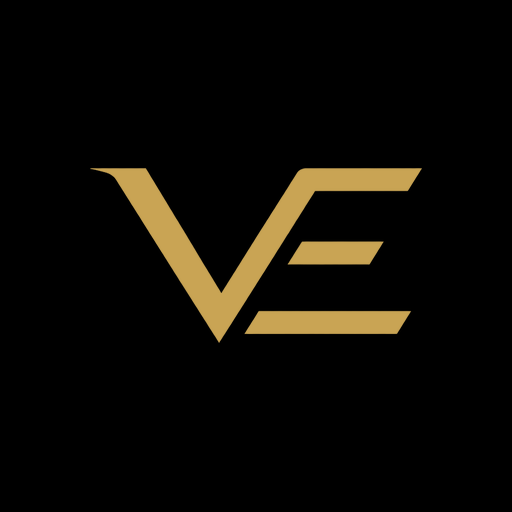
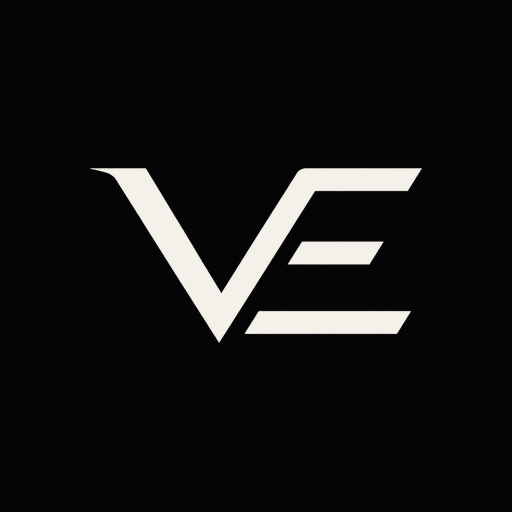
new

Changed region(s): [[0.1875, 0.3125, 0.8438, 0.6875]]

diff --git a/src/app/application/page.tsx b/src/app/application/page.tsx
@@ -86,7 +86,7 @@ const STEPS = [
 ];
 
 function Eyebrow({ children }: { children: React.ReactNode }) {
-  return <p className="text-[11px] font-semibold uppercase tracking-[0.2em] text-gold">{children}</p>;
+  return <p className="text-[11px] font-semibold uppercase tracking-[0.2em] text-silver">{children}</p>;
 }
 
 export default function ApplicationLanding() {
@@ -106,9 +106,9 @@ export default function ApplicationLanding() {
           </div>
 
           <h1 className="mt-4 font-display text-[2.2rem] leading-[1.08] sm:text-6xl">
-            Tú pones los agentes.
+            <span className="text-muted">Tú pones los agentes.</span>
             <br />
-            <span className="text-gold">Nosotros, la data y la infraestructura.</span>
+            Nosotros, la data y la infraestructura.
           </h1>
 
           <p className="mt-5 max-w-xl text-[15px] leading-relaxed text-muted sm:text-lg">
@@ -118,7 +118,7 @@ export default function ApplicationLanding() {
         </div>
 
         <div className="fade-in relative mx-auto mt-8 max-w-3xl [animation-delay:150ms] sm:mt-10">
-          <div className="overflow-hidden rounded-lg border border-gold/25 bg-black shadow-[0_24px_80px_-40px_rgba(0,0,0,0.9)]">
+          <div className="overflow-hidden rounded-lg border border-white/15 bg-black shadow-[0_24px_80px_-40px_rgba(0,0,0,0.9)]">
             <VslPlayer />
           </div>
           <p className="mt-4 text-center text-[12px] text-muted">Mira el video completo · 2 min</p>
@@ -134,7 +134,7 @@ export default function ApplicationLanding() {
               className={`px-3 text-center ${i % 2 === 1 ? "border-l border-line" : ""} ${i === 2 ? "lg:border-l" : ""}`}
             >
               <p className="font-display text-5xl leading-none">
-                <span className="text-gold">{s.value}</span>
+                <span className="text-foreground">{s.value}</span>
                 <span className="ml-1 text-base text-muted">{s.unit}</span>
               </p>
               <p className="mx-auto mt-3 max-w-[15rem] text-[13px] leading-snug text-muted">{s.label}</p>
@@ -148,8 +148,8 @@ export default function ApplicationLanding() {
         <div className="mx-auto max-w-2xl text-center">
           <Eyebrow>El verdadero problema</Eyebrow>
           <h2 className="mt-5 font-display text-4xl leading-tight sm:text-5xl">
-            El cuello de botella de tu agencia no es el talento.
-            <span className="mt-2 block font-normal text-gold">Es la falta de predictibilidad.</span>
+            <span className="text-muted">El cuello de botella de tu agencia no es el talento.</span>
+            <span className="mt-2 block">Es la falta de predictibilidad.</span>
           </h2>
           <p className="mt-6 text-[15px] leading-relaxed text-muted sm:text-base">
             Tus agentes saben cerrar. Lo que frena el crecimiento es no saber cuántas oportunidades reales van a
@@ -165,7 +165,7 @@ export default function ApplicationLanding() {
           <div className="text-center">
             <Eyebrow>La diferencia</Eyebrow>
             <h2 className="mt-5 font-display text-4xl leading-tight sm:text-5xl">
-              Comprar leads <span className="text-gold">no es</span> tener un sistema
+              Comprar leads <span className="text-muted">no es</span> tener un sistema
             </h2>
           </div>
 
@@ -173,7 +173,7 @@ export default function ApplicationLanding() {
             <div className="hidden grid-cols-[1fr_1.3fr_1.3fr] border-b border-line-strong bg-surface-2 text-[11px] font-semibold uppercase tracking-[0.2em] md:grid">
               <span className="px-6 py-4 text-muted">&nbsp;</span>
               <span className="px-6 py-4 text-muted">Modelo tradicional</span>
-              <span className="px-6 py-4 text-gold">Con Visionary Elite</span>
+              <span className="px-6 py-4 text-foreground">Con Visionary Elite</span>
             </div>
             {COMPARISON.map((c) => (
               <div
@@ -188,7 +188,7 @@ export default function ApplicationLanding() {
                   {c.before}
                 </p>
                 <p className="flex gap-3 px-5 pb-5 pt-2 text-[14px] leading-snug md:px-6 md:py-5">
-                  <svg viewBox="0 0 20 20" className="mt-0.5 h-4 w-4 shrink-0 text-gold" aria-hidden>
+                  <svg viewBox="0 0 20 20" className="mt-0.5 h-4 w-4 shrink-0 text-silver" aria-hidden>
                     <path d="M4.5 10.5l3.5 3.5 7.5-8" fill="none" stroke="currentColor" strokeWidth="2" />
                   </svg>
                   {c.after}
@@ -211,7 +211,7 @@ export default function ApplicationLanding() {
             {PILLARS.map((p, i) => (
               <article key={p.title} className="rounded-lg border border-line-strong bg-surface-2 p-6 sm:p-7">
                 <div className="flex items-center justify-between">
-                  <span className="h-0.5 w-8 bg-gold" />
+                  <span className="h-0.5 w-8 bg-silver/70" />
                   <span className="text-[12px] font-medium tabular-nums text-faint">0{i + 1}</span>
                 </div>
                 <h3 className="mt-5 font-display text-[1.7rem] leading-tight">{p.title}</h3>
@@ -228,7 +228,7 @@ export default function ApplicationLanding() {
           <div className="mx-auto max-w-2xl text-center">
             <Eyebrow>Haz el cálculo</Eyebrow>
             <h2 className="mt-5 font-display text-4xl leading-tight sm:text-5xl">
-              ¿Qué produce tu agencia si cada agente cierra <span className="text-gold">3 al día</span>?
+              ¿Qué produce tu agencia si cada agente cierra <span className="text-muted">3 al día</span>?
             </h2>
             <p className="mt-5 text-[15px] leading-relaxed text-muted">
               Mueve los valores con los números reales de tu equipo.
@@ -246,18 +246,21 @@ export default function ApplicationLanding() {
           <div className="text-center md:text-left">
             <Eyebrow>A quién buscamos</Eyebrow>
             <h2 className="mt-5 font-display text-4xl leading-tight sm:text-5xl">
-              Líderes de agencia que ya tienen <span className="text-gold">estructura</span>
+              <span className="text-muted">Líderes de agencia que ya tienen</span> estructura
             </h2>
             <p className="mt-5 text-[15px] leading-relaxed text-muted">
               Esto no se soluciona con un mensaje ni con una llamada de cinco minutos. Trabajamos con pocas
               agencias, a fondo, para capturar juntos la cuota de mercado que nos corresponde.
+            </p>
+            <p className="mt-7 font-display text-2xl leading-snug sm:text-3xl">
+              <span className="text-muted">No buscamos cantidad,</span> sino calidad.
             </p>
           </div>
 
           <ul className="divide-y divide-line-strong border-y border-line-strong">
             {FIT.map((f) => (
               <li key={f} className="flex items-start gap-4 py-4">
-                <svg viewBox="0 0 20 20" className="mt-0.5 h-5 w-5 shrink-0 text-gold" aria-hidden>
+                <svg viewBox="0 0 20 20" className="mt-0.5 h-5 w-5 shrink-0 text-silver" aria-hidden>
                   <path d="M4.5 10.5l3.5 3.5 7.5-8" fill="none" stroke="currentColor" strokeWidth="1.8" />
                 </svg>
                 <span className="text-[15px] leading-snug">{f}</span>
@@ -292,7 +295,7 @@ export default function ApplicationLanding() {
           <ol className="relative mt-12 space-y-10 before:absolute before:bottom-6 before:left-[19px] before:top-6 before:w-px before:bg-line-strong">
             {STEPS.map((s, i) => (
               <li key={s.title} className="relative flex gap-6">
-                <span className="relative z-10 flex h-10 w-10 shrink-0 items-center justify-center rounded-full border border-gold/60 bg-background text-sm font-semibold text-gold">
+                <span className="relative z-10 flex h-10 w-10 shrink-0 items-center justify-center rounded-full border border-white/30 bg-background text-sm font-semibold text-foreground">
                   {i + 1}
                 </span>
                 <div className="pt-1.5">
@@ -317,7 +320,7 @@ export default function ApplicationLanding() {
               <details key={f.q} className="group py-5">
                 <summary className="flex cursor-pointer list-none items-center justify-between gap-6 text-[16px] font-medium [&::-webkit-details-marker]:hidden">
                   {f.q}
-                  <span className="text-xl leading-none text-gold transition-transform group-open:rotate-45" aria-hidden>
+                  <span className="text-xl leading-none text-silver transition-transform group-open:rotate-45" aria-hidden>
                     +
                   </span>
                 </summary>
@@ -331,12 +334,12 @@ export default function ApplicationLanding() {
       {/* ---------- Cierre ---------- */}
       <section className="relative px-4 pb-20 pt-4 sm:pb-28">
         <div className="mx-auto max-w-2xl text-center">
-          <span className="mx-auto block h-px w-16 bg-gold/60" />
+          <span className="mx-auto block h-px w-16 bg-white/30" />
           <p className="mt-10 font-display text-3xl italic leading-snug sm:text-4xl">
             &ldquo;Mi objetivo es integrar mi tecnología, mi sistema de distribución y mi organización directamente
             en tu oficina.&rdquo;
           </p>
-          <Logo variant="monogram" className="mx-auto mt-10 w-12" />
+          <Logo variant="monogram" className="mx-auto mt-10 w-12 text-muted" />
         </div>
       </section>
 

diff --git a/src/app/application/apply/ApplicationForm.tsx b/src/app/application/apply/ApplicationForm.tsx
@@ -137,7 +137,7 @@ export default function ApplicationForm() {
       {/* Encabezado + progreso por segmentos */}
       <header className="mx-auto w-full max-w-xl px-5 pt-5">
         <div className="flex items-center justify-between">
-          <Logo className="w-[76px] text-gold" />
+          <Logo className="w-[76px]" />
           <span className="text-[13px] font-medium tabular-nums text-muted">
             <span className="text-foreground">{String(i + 1).padStart(2, "0")}</span> / {STEPS.length}
           </span>
@@ -146,7 +146,7 @@ export default function ApplicationForm() {
           {STEPS.map((s, n) => (
             <span
               key={s}
-              className={`h-[3px] flex-1 transition-colors duration-300 ${n <= i ? "bg-gold" : "bg-line-strong"}`}
+              className={`h-[3px] flex-1 transition-colors duration-300 ${n <= i ? "bg-foreground" : "bg-line-strong"}`}
             />
           ))}
         </div>
@@ -187,14 +187,14 @@ export default function ApplicationForm() {
                     >
                       <span
                         className={`flex h-7 w-7 shrink-0 items-center justify-center border text-[11px] font-semibold transition-colors ${
-                          selected ? "border-gold bg-gold text-black" : "border-line-strong text-muted"
+                          selected ? "border-foreground bg-foreground text-black" : "border-line-strong text-muted"
                         }`}
                       >
                         {String.fromCharCode(65 + n)}
                       </span>
                       <span className="flex-1">{o.label}</span>
                       {selected && (
-                        <svg viewBox="0 0 20 20" className="h-4 w-4 text-gold" aria-hidden>
+                        <svg viewBox="0 0 20 20" className="h-4 w-4 text-foreground" aria-hidden>
                           <path d="M4.5 10.5l3.5 3.5 7.5-8" fill="none" stroke="currentColor" strokeWidth="1.8" />
                         </svg>
                       )}
@@ -269,7 +269,7 @@ export default function ApplicationForm() {
                 error={showError(errors.npn)}
                 autoFocus
               />
-              <p className="mt-4 border-l-2 border-gold pl-3 text-[13px] leading-snug text-foreground/90">
+              <p className="mt-4 border-l-2 border-silver pl-3 text-[13px] leading-snug text-foreground/90">
                 Si tu NPN no coincide con tu nombre, no serás contactado.
               </p>
               <p className="mt-10 text-[12px] leading-relaxed text-faint">
@@ -310,7 +310,7 @@ export default function ApplicationForm() {
               <button
                 type="submit"
                 disabled={sending}
-                className="flex h-[52px] flex-1 items-center justify-between bg-gold px-5 text-[14px] font-semibold text-black transition hover:bg-[#d6b264] active:translate-y-px disabled:opacity-60"
+                className="flex h-[52px] flex-1 items-center justify-between bg-foreground px-5 text-[14px] font-semibold text-black transition hover:bg-white active:translate-y-px disabled:opacity-60"
               >
                 <span>{step === "npn" ? (sending ? "Enviando…" : "Enviar aplicación") : "Continuar"}</span>
                 <svg viewBox="0 0 20 20" className="h-4 w-4" aria-hidden>
@@ -338,7 +338,7 @@ function Step({
 }) {
   return (
     <div>
-      <p className="text-[12px] font-medium uppercase tracking-[0.14em] text-gold">{eyebrow}</p>
+      <p className="text-[12px] font-medium uppercase tracking-[0.14em] text-silver">{eyebrow}</p>
       <h1 className="mt-3 font-display text-[1.95rem] leading-[1.12] sm:text-[2.5rem]">{title}</h1>
       {hint && <p className="mt-3 text-sm text-muted">{hint}</p>}
       <div className="mt-9">{children}</div>
@@ -367,7 +367,7 @@ function Field({
         value={value}
         onChange={(e) => onChange(e.target.value)}
         aria-invalid={Boolean(error)}
-        className={`w-full border-b bg-transparent pb-3 pt-2 text-[20px] text-foreground outline-none transition-colors placeholder:text-faint focus:border-gold ${
+        className={`w-full border-b bg-transparent pb-3 pt-2 text-[20px] text-foreground outline-none transition-colors placeholder:text-faint focus:border-foreground ${
           error ? "border-red-500" : "border-line-strong"
         }`}
       />

diff --git a/src/app/globals.css b/src/app/globals.css
@@ -5,9 +5,10 @@
   --surface: #0b0b0c;
   --surface-2: #111113;
   --foreground: #f4f1ea;
-  --muted: #9a968d;
-  --faint: #5f5c56;
-  --line: rgba(212, 175, 55, 0.16);
+  --muted: #8e929a;
+  --faint: #5c6068;
+  --silver: #c3c7ce;
+  --line: rgba(255, 255, 255, 0.08);
   --line-strong: #2a2a2a;
   --gold-light: #f5e3a3;
   --gold: #d4af37;
@@ -21,6 +22,7 @@
   --color-foreground: var(--foreground);
   --color-muted: var(--muted);
   --color-faint: var(--faint);
+  --color-silver: var(--silver);
   --color-line: var(--line);
   --color-line-strong: var(--line-strong);
   --color-gold: var(--gold);
@@ -41,7 +43,7 @@ body {
 }
 
 ::selection {
-  background: rgba(212, 175, 55, 0.35);
+  background: rgba(255, 255, 255, 0.25);
   color: #fff;
 }
 
@@ -59,15 +61,15 @@ body {
   background-size: 200% auto;
 }
 
-/* Solo para el "Coming Soon" del home. */
-.gold-text {
+/* Solo para el "Coming Soon" del home (plata). */
+.silver-text {
   background: linear-gradient(
     110deg,
-    var(--gold-deep) 0%,
-    var(--gold) 25%,
-    var(--gold-light) 50%,
-    var(--gold) 75%,
-    var(--gold-deep) 100%
+    #6b6f76 0%,
+    #c3c7ce 25%,
+    #ffffff 50%,
+    #c3c7ce 75%,
+    #6b6f76 100%
   );
   background-size: 200% auto;
   -webkit-background-clip: text;
@@ -76,21 +78,22 @@ body {
   animation: shimmer 8s linear infinite;
 }
 
-.gold-line {
-  background: linear-gradient(90deg, transparent, var(--gold), transparent);
+.silver-line {
+  background: linear-gradient(90deg, transparent, var(--silver), transparent);
 }
 
 .glow {
   background: radial-gradient(
     ellipse at center,
-    rgba(212, 175, 55, 0.1) 0%,
-    rgba(212, 175, 55, 0.03) 35%,
+    rgba(255, 255, 255, 0.06) 0%,
+    rgba(255, 255, 255, 0.02) 35%,
     transparent 70%
   );
 }
 
-/* Logo: el PNG blanco se usa como máscara y se rellena con el degradado dorado. */
+/* Logo: el PNG blanco se usa como máscara y se rellena con el color del texto. */
 .logo-mask {
+  background-color: currentColor;
   -webkit-mask: var(--logo) center / contain no-repeat;
   mask: var(--logo) center / contain no-repeat;
 }
@@ -134,7 +137,7 @@ body {
 }
 
 @media (prefers-reduced-motion: reduce) {
-  .gold-text,
+  .silver-text,
   .fade-in,
   .step-in {
     animation: none;

diff --git a/src/components/ComingSoon.tsx b/src/components/ComingSoon.tsx
@@ -4,11 +4,11 @@ export default function ComingSoon() {
       <div className="glow pointer-events-none absolute left-1/2 top-1/2 h-[70vmin] w-[140vmin] -translate-x-1/2 -translate-y-1/2" />
 
       <div className="fade-in relative flex flex-col items-center gap-8">
-        <span className="gold-line h-px w-24 sm:w-40" />
-        <h1 className="gold-text font-display text-center text-5xl font-light uppercase tracking-[0.3em] sm:text-7xl md:text-8xl">
+        <span className="silver-line h-px w-24 sm:w-40" />
+        <h1 className="silver-text font-display text-center text-5xl font-light uppercase tracking-[0.3em] sm:text-7xl md:text-8xl">
           Coming Soon
         </h1>
-        <span className="gold-line h-px w-24 sm:w-40" />
+        <span className="silver-line h-px w-24 sm:w-40" />
       </div>
     </main>
   );

diff --git a/src/components/Logo.tsx b/src/components/Logo.tsx
@@ -5,19 +5,19 @@ type Props = {
   className?: string;
 };
 
-// Proporciones reales de los PNG de public/brand.
+// Proporciones reales de los PNG de public/brand. El color sale de `text-*`.
 const ASSETS = {
   full: { src: "/brand/logo.png", ratio: "981 / 538" },
   monogram: { src: "/brand/monogram.png", ratio: "553 / 292" },
 };
 
-export default function Logo({ variant = "full", className = "" }: Props) {
+export default function Logo({ variant = "full", className = "text-foreground" }: Props) {
   const a = ASSETS[variant];
   return (
     <div
       role="img"
       aria-label="Visionary Elite"
-      className={`logo-mask gold-gradient ${className}`}
+      className={`logo-mask ${className}`}
       style={{ "--logo": `url(${a.src})`, aspectRatio: a.ratio } as CSSProperties}
     />
   );

diff --git a/src/components/ThankYou.tsx b/src/components/ThankYou.tsx
@@ -13,12 +13,12 @@ export default function ThankYou({
   return (
     <div className="flex min-h-dvh flex-1 flex-col">
       <header className="mx-auto w-full max-w-xl px-5 py-5">
-        <Logo className="w-[84px] text-gold" />
+        <Logo className="w-[84px]" />
       </header>
 
       <main className="step-in mx-auto flex w-full max-w-xl flex-1 flex-col justify-center px-5 pb-24">
         <div className="flex items-center gap-3">
-          <span className="h-1.5 w-1.5 bg-gold" />
+          <span className="h-1.5 w-1.5 bg-silver" />
           <p className="text-[12px] font-medium uppercase tracking-[0.14em] text-muted">{eyebrow}</p>
         </div>
         <h1 className="mt-5 font-display text-[2.4rem] leading-[1.08] sm:text-5xl">{title}</h1>

diff --git a/src/app/application/thank-you/page.tsx b/src/app/application/thank-you/page.tsx
@@ -13,7 +13,7 @@ export default function ThankYouQualified() {
       eyebrow="Aplicación recibida"
       title={
         <>
-          Tu agencia <span className="text-gold">califica</span> para el siguiente paso
+          <span className="text-muted">Tu agencia</span> califica <span className="text-muted">para el siguiente paso</span>
         </>
       }
     >
